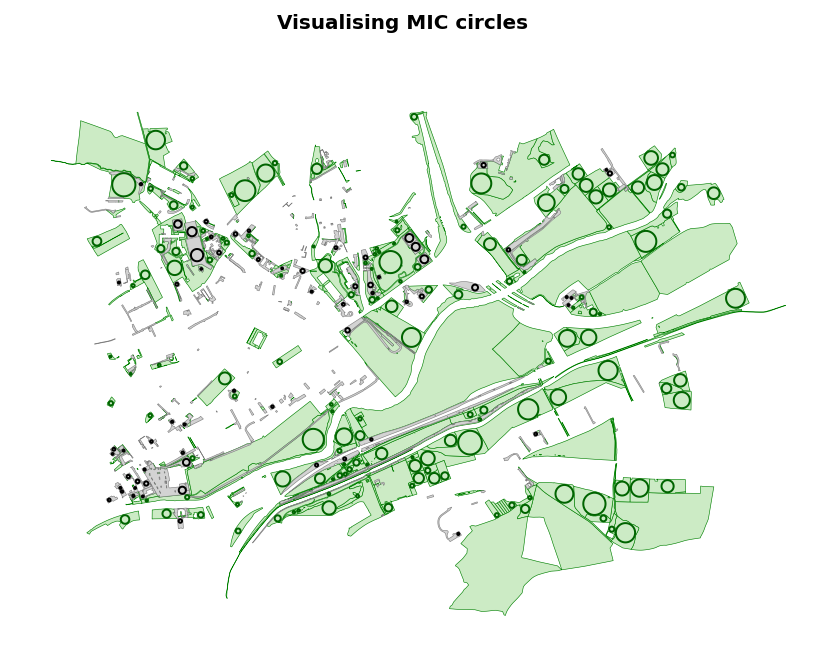
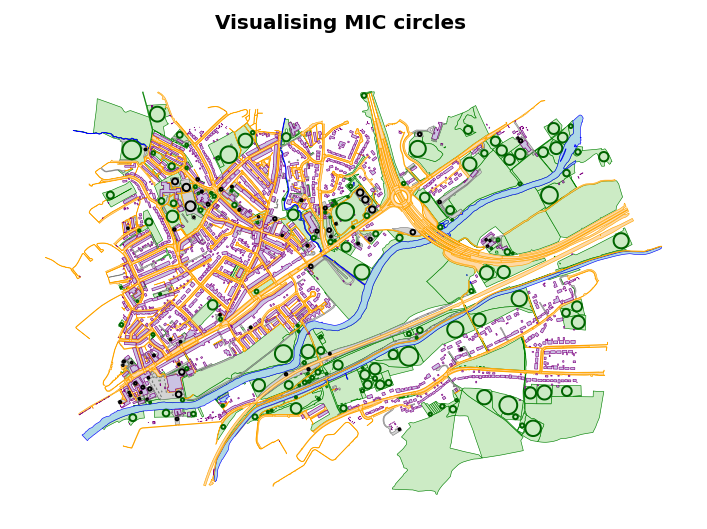
adding other land use layers to map

diff --git a/dissertation-code.py b/dissertation-code.py
@@ -293,8 +293,18 @@ manmade_mic.to_file("out/manmade_MIC_safe.shp")
 
 # Plotting all Maps ------------------------------
 
-# plot the dataset - 3 different maps -----------
-fig, my_ax = subplots(figsize=(9, 5))
+#select by attributes - rivers
+inland_water = landuse[landuse["Name"].str.contains("Inland Water")]
+
+#select by attributes - roads
+roads = landuse[landuse["Name"].str.contains("Roads")]
+
+#select by attributes - buildings
+buildings = landuse[landuse["Name"].str.contains("Buildings")]
+
+
+# plot the dataset - 3 different maps -------------
+fig, my_ax = subplots(figsize=(7, 4))
 
 # remove axes
 my_ax.axis('off')
@@ -302,19 +312,32 @@ my_ax.axis('off')
 #creating title
 fig.suptitle('Visualising MIC circles', fontsize=10, weight='bold')
 
+
+# extract the bounds from the CSO layer
+#minx, miny, maxx, maxy = contours.iloc[0].bounds
+
+# set bounds (10000m buffer around the border itself, to give us some context)
+#buffer = 50
+
 # plotting cleaned land use polygons -------
 
 #natural land cleaned
-natural_clean.plot(ax = my_ax, 
-                   color = '#ccebc5', 
-                   edgecolor = 'green',  
-                   linewidth = 0.3)
+natural_clean.plot(ax = my_ax, color = '#ccebc5', edgecolor = 'green',  linewidth = 0.3)
 
 #manmade land cleaned
-manmade_clean.plot(ax = my_ax, 
-                   color = 'lightgrey', 
-                   edgecolor = 'grey',  
-                   linewidth = 0.3)
+manmade_clean.plot(ax = my_ax, color = 'lightgrey', edgecolor = 'grey',  linewidth = 0.3)
+
+#land use extras -----
+
+#natural land cleaned
+inland_water.plot(ax = my_ax, color = 'lightblue', edgecolor = 'blue',  linewidth = 0.3)
+
+#natural land cleaned
+roads.plot(ax = my_ax, color = '#fed9a6', edgecolor = 'orange',  linewidth = 0.3)
+
+#natural land cleaned
+buildings.plot(ax = my_ax, color = '#cbc3e3', edgecolor = 'purple',  linewidth = 0.3)
+
 
 # plotting MIC safe circles -------
 
